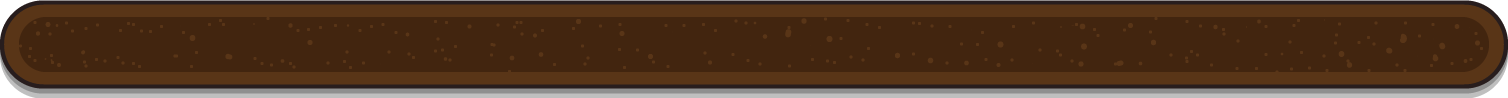
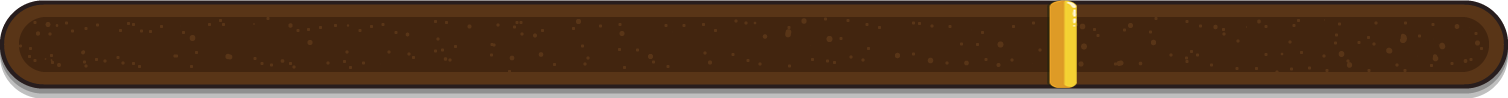
Updated bar_bg.png and TargetComponent

Changed region(s): [[0.6857, 0.0, 0.7168, 0.9184]]

diff --git a/Assets/Scripts/TargetComponent.cs b/Assets/Scripts/TargetComponent.cs
@@ -9,13 +9,19 @@ public class TargetComponent : InteractiveComponent
     private bool gotHit;
     private int numberOfHits;
     private float targetHP;
+    private bool pointAdded;
 
     IEnumerator DestroyPlank(int seconds)
     {
         explosionParticle.Play();
         if (numberOfHits == 2 || targetHP < 0)
         {
-            GameplayManager.Instance.Points += 1;
+            if (pointAdded == false)
+            {
+                GameplayManager.Instance.Points += 1;
+                pointAdded = true;
+            }
+
             ProgressBarController.Instance.UpdateProgressBar();
             yield return new WaitForSeconds(seconds);
             this.gameObject.SetActive(false);
@@ -77,5 +83,6 @@ public class TargetComponent : InteractiveComponent
         GameplayManager.OnGamePaused += DoPause;
         GameplayManager.OnGamePlaying += DoPlay;
         targetHP = 15.0f;
+        pointAdded = false;
     }
 }

diff --git a/Assets/Scripts/GameplayManager.cs b/Assets/Scripts/GameplayManager.cs
@@ -20,7 +20,6 @@ public class GameplayManager : Singleton<GameplayManager>
     private int m_maxPoints;
     private int m_balls = 3;
     private float m_frames;
-    private bool addedExtraBall;
     public float ballVelocity;
     public int m_LifetimeHits;
     public delegate void GameStateCallBack();
@@ -46,7 +45,6 @@ public class GameplayManager : Singleton<GameplayManager>
             }
         }
         m_maxPoints = (m_restartableObjects.Count - 1);
-        addedExtraBall = false;
     }
 
     public void SpawnTestTargets(int numberOfTargets)
